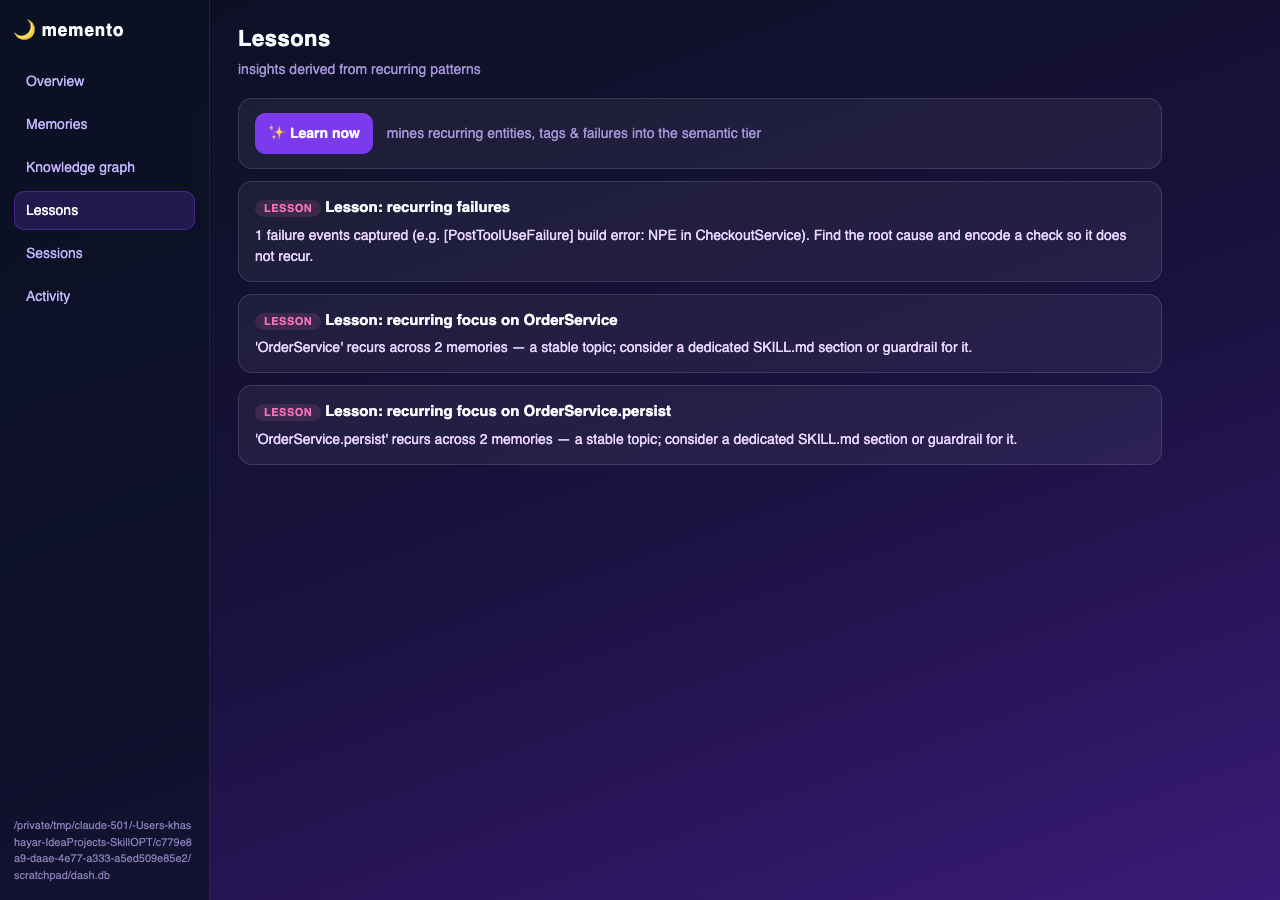
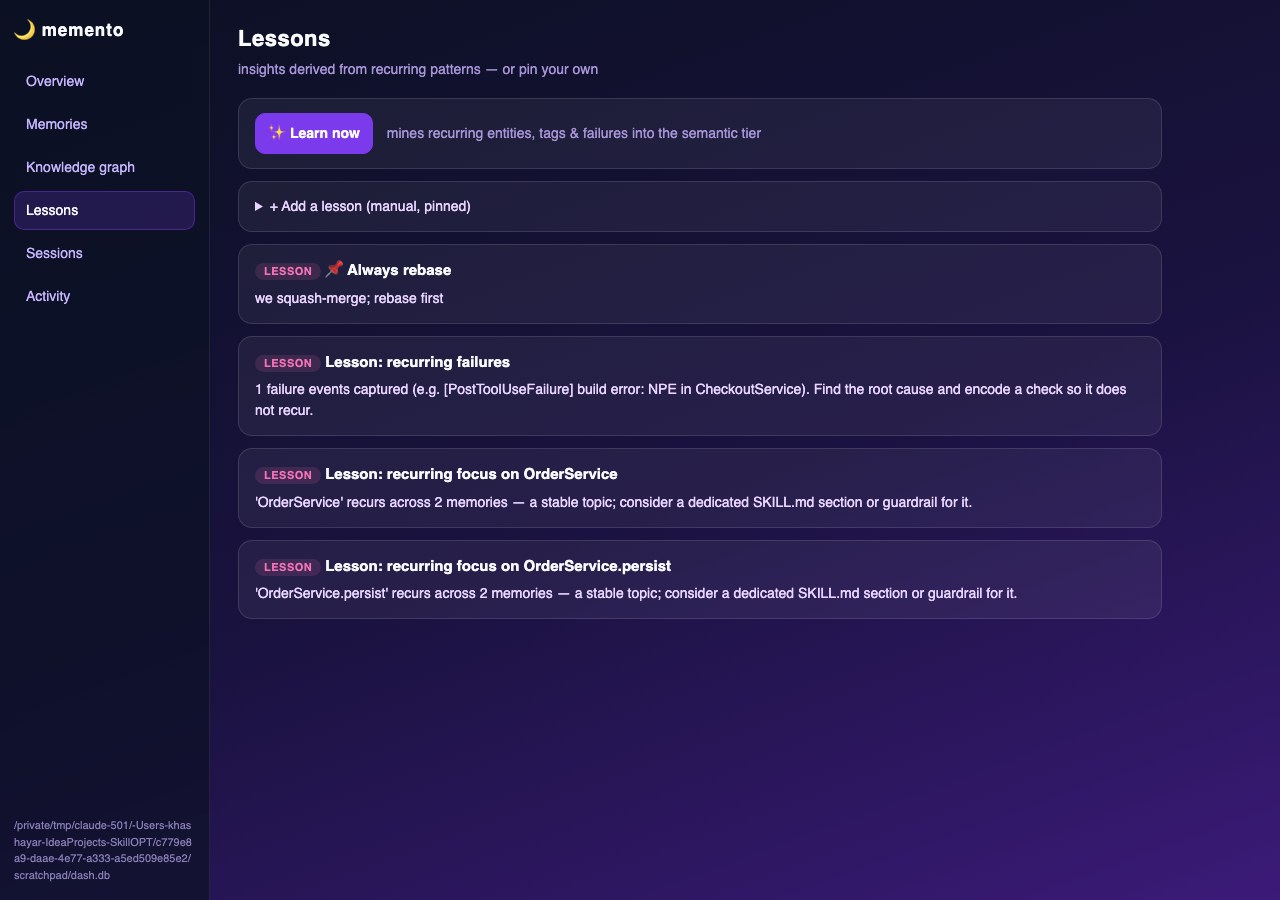
feat: manually author lessons (pinned) from the dashboard
Add MemoryStore.add_lesson() — saves a semantic-tier lesson and pins it so
memory_learn (which regenerates unpinned auto-lessons) never wipes it. Expose
via POST /api/lesson and an "+ Add a lesson" form on the dashboard Lessons tab,
with a 📌 marker distinguishing manual from auto-derived lessons. +1 test
(manual lesson survives re-learn) — 58 pass.

Changed region(s): [[0.1875, 0.2178, 0.875, 0.5911], [0.1875, 0.6222, 0.7812, 0.6844], [0.4062, 0.0622, 0.4688, 0.0933]]

diff --git a/memento_memory.py b/memento_memory.py
@@ -508,7 +508,14 @@ class MemoryStore:
         with self._connect() as c:
             return [self._row(r) for r in c.execute(
                 "SELECT * FROM memories WHERE source='lesson' "
-                "ORDER BY created_ts DESC LIMIT ?", (int(limit),))]
+                "ORDER BY pinned DESC, created_ts DESC LIMIT ?", (int(limit),))]
+
+    def add_lesson(self, title, content) -> str:
+        """Manually author a lesson. Pinned, so memory_learn never wipes it."""
+        mid = self.save(title, content, tier="semantic", tags="lesson",
+                        source="lesson")
+        self.pin(mid, True)
+        return mid
 
     def sessions(self) -> list:
         with self._connect() as c:
@@ -714,13 +721,20 @@ async function mpin(id,p){await post('/api/pin',{id,pinned:!!p});loadMem();}
 
 async function lessons(){
  const d=await api('/api/lessons');
- $('#main').innerHTML=`<h2>Lessons</h2><p class=sub>insights derived from recurring patterns</p>
+ $('#main').innerHTML=`<h2>Lessons</h2><p class=sub>insights derived from recurring patterns — or pin your own</p>
  <div class=card><button class=btn onclick=doLearn()>✨ Learn now</button>
   <span class=sub style=margin-left:10px>mines recurring entities, tags & failures into the semantic tier</span></div>
- <div id=ll>${d.lessons.map(m=>`<div class=card>${badge('lesson')} <h3 style=display:inline>${esc(m.title)}</h3>
-   <div style=margin-top:6px>${esc(m.content)}</div></div>`).join('')||'<p class=sub>No lessons yet — click Learn now.</p>'}</div>`;
+ <details class=card><summary style=cursor:pointer>+ Add a lesson (manual, pinned)</summary>
+  <div class=row><input id=lt placeholder="Lesson title"></div>
+  <textarea id=lc rows=2 placeholder="What did we learn?"></textarea>
+  <div class=row><button class=btn onclick=doAddLesson()>Save lesson</button></div>
+  <span class=sub>Manual lessons are pinned 📌, so "Learn now" never overwrites them.</span></details>
+ <div id=ll>${d.lessons.map(m=>`<div class=card>${badge('lesson')} ${m.pinned?'📌 ':''}<h3 style=display:inline>${esc(m.title)}</h3>
+   <div style=margin-top:6px>${esc(m.content)}</div></div>`).join('')||'<p class=sub>No lessons yet — click Learn now or add one.</p>'}</div>`;
 }
 async function doLearn(){const r=await post('/api/learn',{});toast('derived '+(r.created||[]).length+' lesson(s)');lessons();}
+async function doAddLesson(){const r=await post('/api/lesson',{title:$('#lt').value,content:$('#lc').value});
+ if(r.error){toast(r.error);return;}toast('lesson pinned');lessons();}
 
 async function sessions(){
  const d=await api('/api/sessions');
@@ -844,6 +858,12 @@ def _make_handler(store):
                 created = store.learn(min_support=body.get("min_support", 2))
                 return self._send(200, json.dumps(
                     {"created": [{"id": i, "label": lbl} for i, lbl in created]}))
+            if path == "/api/lesson":
+                try:
+                    mid = store.add_lesson(body.get("title"), body.get("content"))
+                    return self._send(200, json.dumps({"id": mid}))
+                except ValueError as e:
+                    return self._send(400, json.dumps({"error": str(e)}))
             if path == "/api/consolidate":
                 return self._send(200, json.dumps(store.consolidate()))
             return self._send(404, json.dumps({"error": "not found"}))

diff --git a/tests/test_memento.py b/tests/test_memento.py
@@ -539,6 +539,18 @@ class TestMemoryAdvanced(unittest.TestCase):
         self.assertEqual(len([m for m in self.store.lessons()
                               if "WidgetCache" in m["content"]]), 1)
 
+    def test_manual_lesson_is_pinned_and_survives_relearn(self):
+        mid = self.store.add_lesson("Always rebase", "we squash-merge; rebase first")
+        self.assertTrue(self.store.get(mid)["pinned"])
+        self.assertEqual(self.store.get(mid)["tier"], "semantic")
+        # seed a recurring pattern, then re-derive lessons
+        self.store.save("a", "touch WidgetCache")
+        self.store.save("b", "again WidgetCache")
+        self.store.learn()
+        titles = [m["title"] for m in self.store.lessons()]
+        self.assertIn("Always rebase", titles)   # manual one kept
+        self.assertTrue(any("WidgetCache" in m["content"] for m in self.store.lessons()))
+
     def test_learn_summarizes_failures(self):
         self.store.capture("PostToolUseFailure", "build error: NPE in checkout")
         self.store.capture("PostToolUseFailure", "test failure in payment flow")